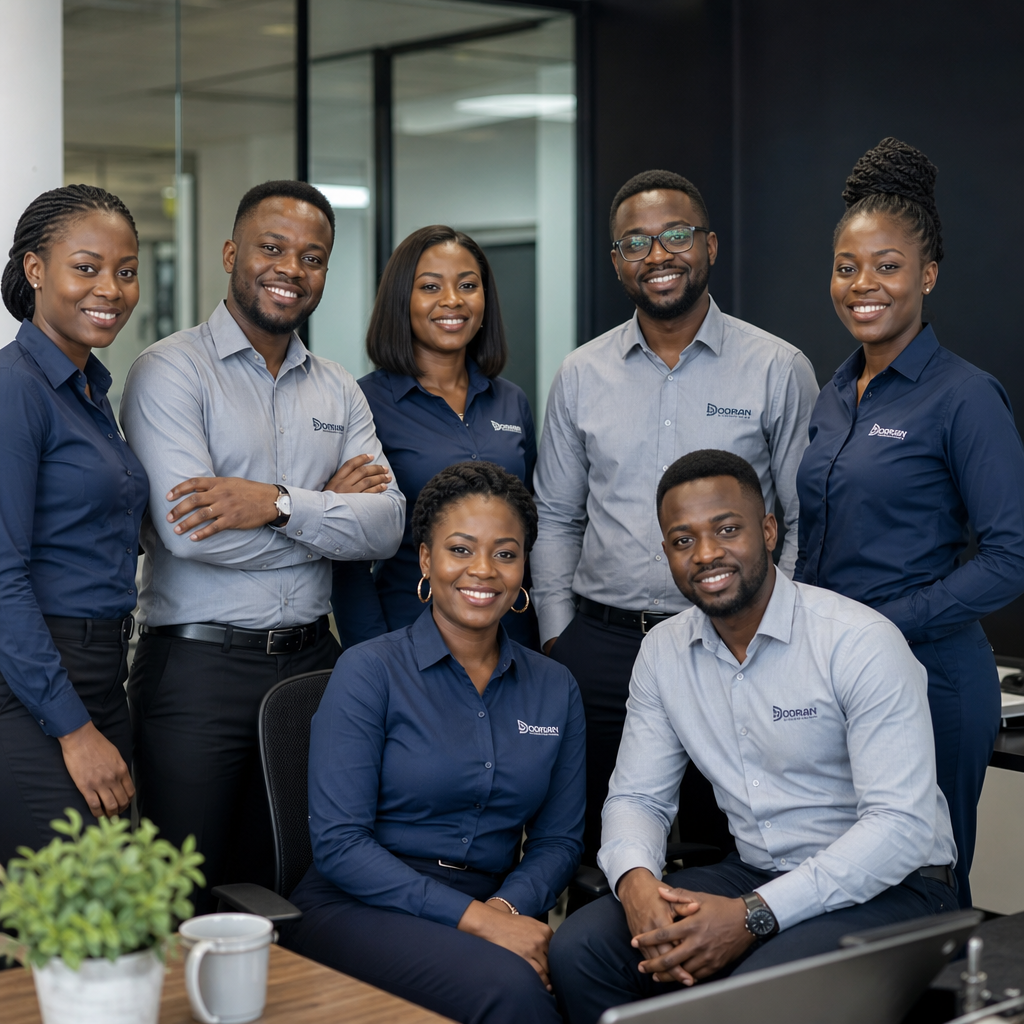
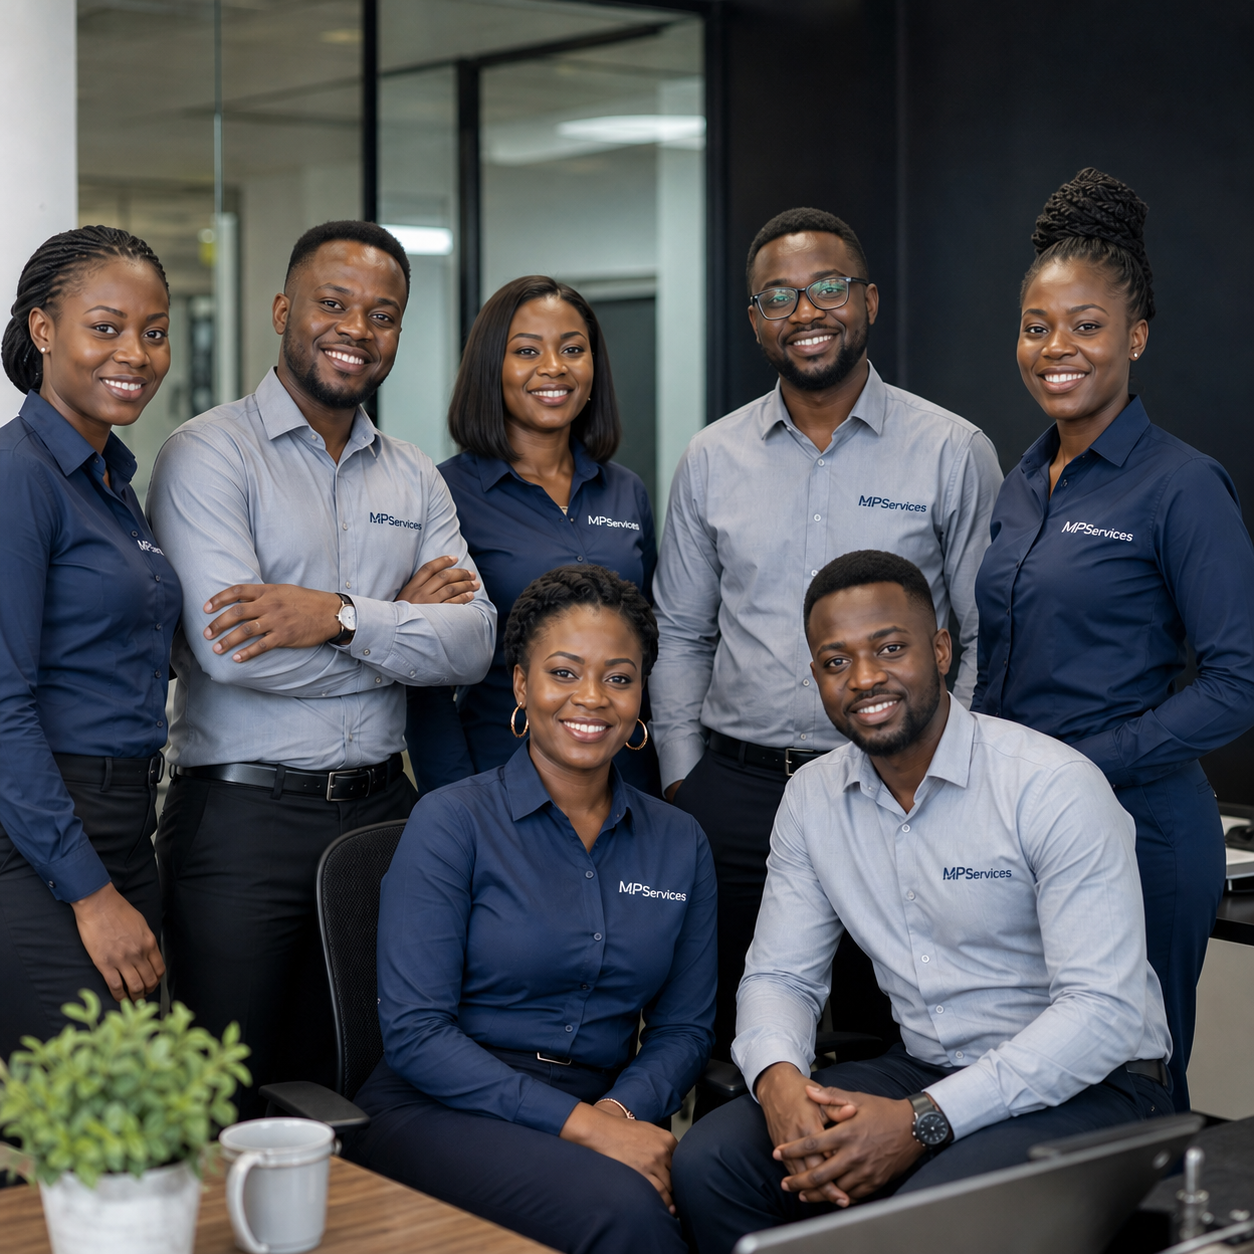
update-2

diff --git a/app/layout.tsx b/app/layout.tsx
@@ -20,21 +20,8 @@ export const metadata: Metadata = {
     'MPServices met à disposition des entreprises des hôtesses d’accueil, des agents de sécurité et du personnel qualifié. Des équipes fiables, formées et disponibles partout.',
   generator: 'v0.app',
   icons: {
-    icon: [
-      {
-        url: '/icon-light-32x32.png',
-        media: '(prefers-color-scheme: light)',
-      },
-      {
-        url: '/icon-dark-32x32.png',
-        media: '(prefers-color-scheme: dark)',
-      },
-      {
-        url: '/icon.svg',
-        type: 'image/svg+xml',
-      },
-    ],
-    apple: '/apple-icon.png',
+    icon: '/images/logo.png',
+    apple: '/images/logo.png',
   },
 }
 

diff --git a/components/site-footer.tsx b/components/site-footer.tsx
@@ -11,7 +11,13 @@ const groups = [
   },
   {
     title: "Contact",
-    links: ["05 021 03 03", "066 273 833", "[email redacted]", "Brazzaville · Pointe-Noire"],
+    links: [
+      "05 021 03 03", 
+      "066 273 833", 
+      "[email redacted]", 
+      "Brazzaville: 104 Av. de la base Batignolles BP 1312",
+      "Pointe-Noire: 23 Bd du Général de Gaulle BP 1126"
+    ],
   },
 ]
 

diff --git a/components/contact.tsx b/components/contact.tsx
@@ -28,7 +28,8 @@ export function Contact() {
               {[
                 { icon: Phone, label: "Téléphone", value: "05 021 03 03 · 066 273 833" },
                 { icon: Mail, label: "Email", value: "[email redacted]" },
-                { icon: MapPin, label: "Zone d'intervention", value: "Brazzaville · Pointe-Noire · tout le Congo" },
+                { icon: MapPin, label: "Brazzaville", value: "104 Avenue de la base Batignolles BP 1312" },
+                { icon: MapPin, label: "Pointe-Noire", value: "23 Boulevard du Général de Gaulle BP 1126" },
               ].map((item) => (
                 <li key={item.label} className="flex items-center gap-4">
                   <span className="grid size-11 place-items-center rounded-xl bg-primary text-primary-foreground">